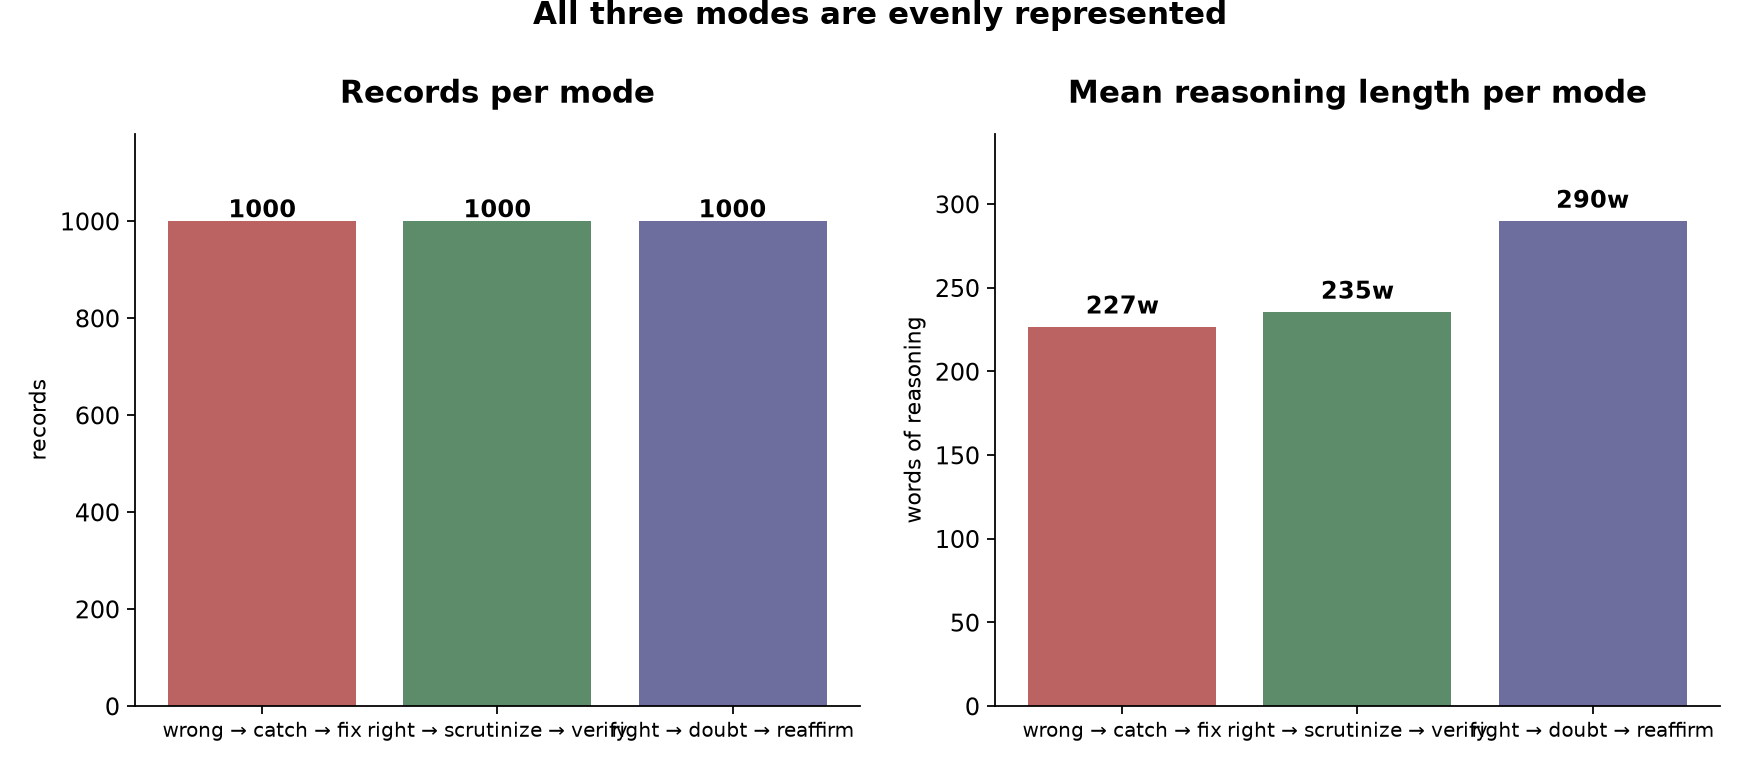
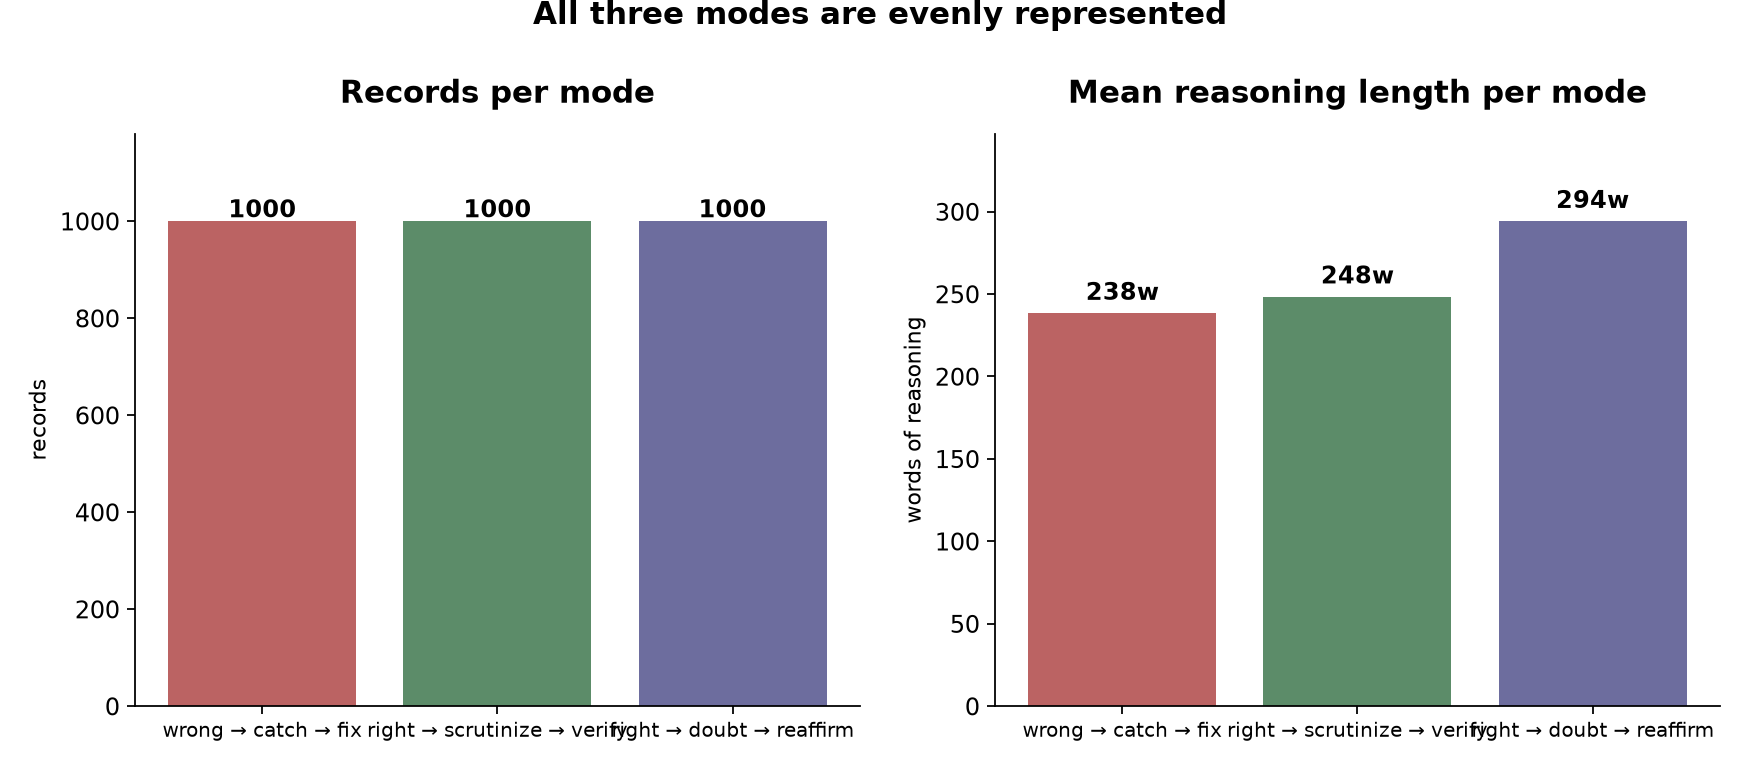
docs: regenerate charts from current data + update stats table
Charts were out of date after the grounding rework (Claude's prompt-quoting
rework + 434 general-domain groundings added words to many records). Regenerated
all 10 PNGs from the current 3,000-record dataset via charts/generate_charts.py.

Updated README stats table to match current data: Easy ~53/~4, Medium ~186/~35,
Hard ~570/~96, Mix ~174/~65 words (from ~51/~4, ~177/~35, ~550/~96, ~171/~65).

diff --git a/README.md b/README.md
@@ -74,10 +74,10 @@ The `user_correction/mix/` folder is the exception to the separated-difficulty s
 
 | Tier | Mean reasoning | Mean final answer | Blocks |
 |------|---------------:|------------------:|:-----:|
-| Easy | ~51 words | ~4 words | 1-2 |
-| Medium | ~177 words | ~35 words | 3 |
-| Hard | ~550 words | ~96 words | 4-5 |
-| Mix | ~171 words | ~65 words | 1-5 |
+| Easy | ~53 words | ~4 words | 1-2 |
+| Medium | ~186 words | ~35 words | 3 |
+| Hard | ~570 words | ~96 words | 4-5 |
+| Mix | ~174 words | ~65 words | 1-5 |
 
 Easy problems get a quick check. Hard problems get multiple rounds of catching, fixing, and verifying. The model learns to match effort to complexity instead of padding trivial answers or truncating hard ones. The mix row is the `user_correction` category, where each record is a four-message conversation and the totals reflect both assistant turns.
 
